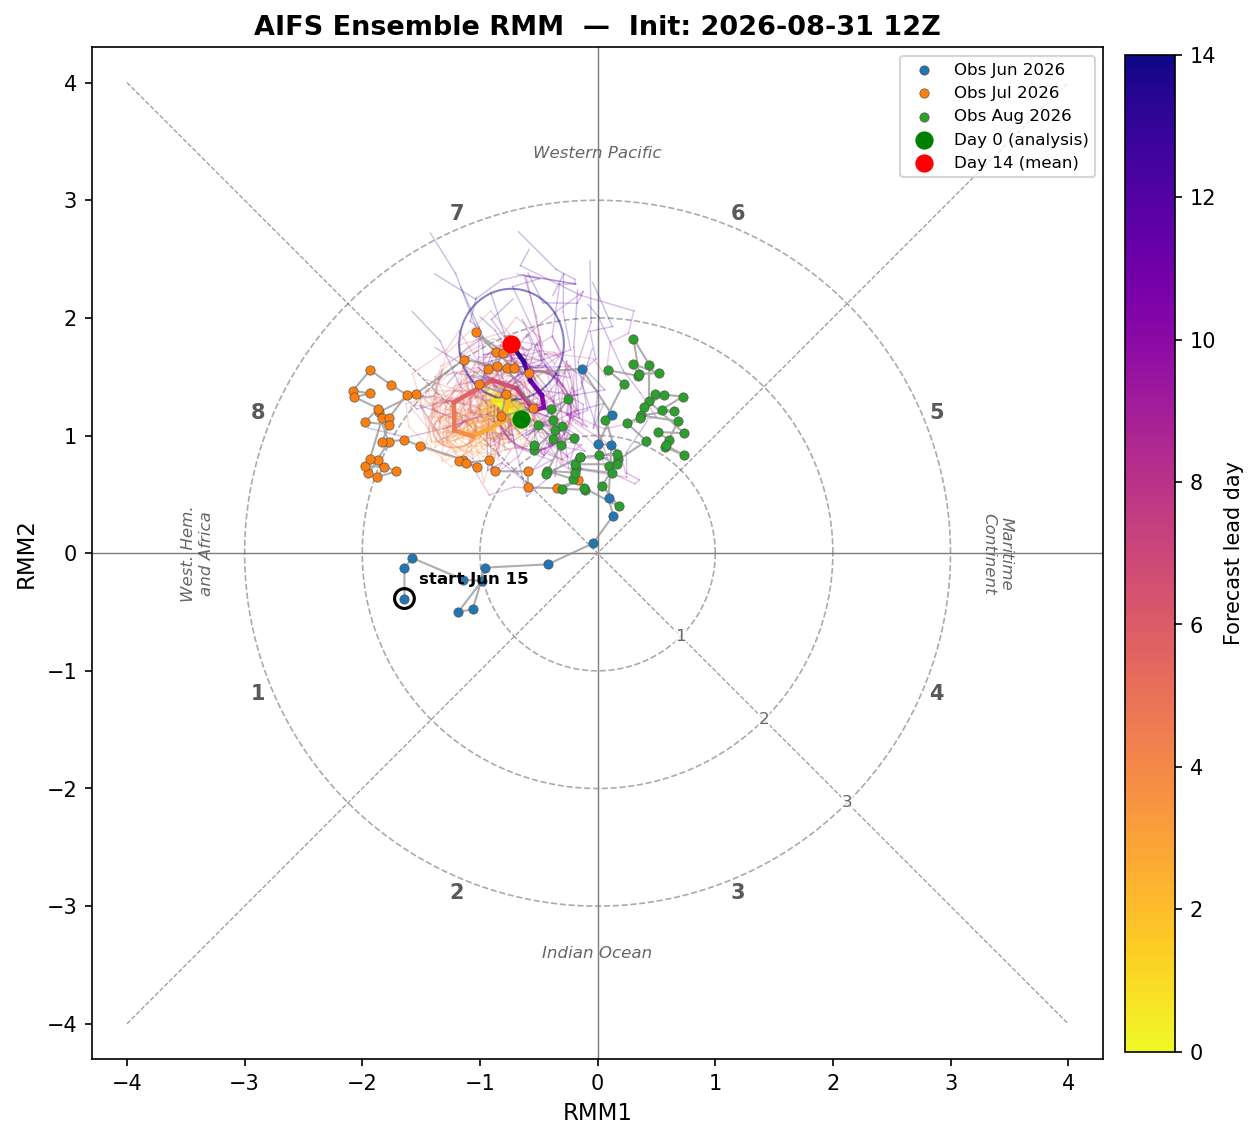
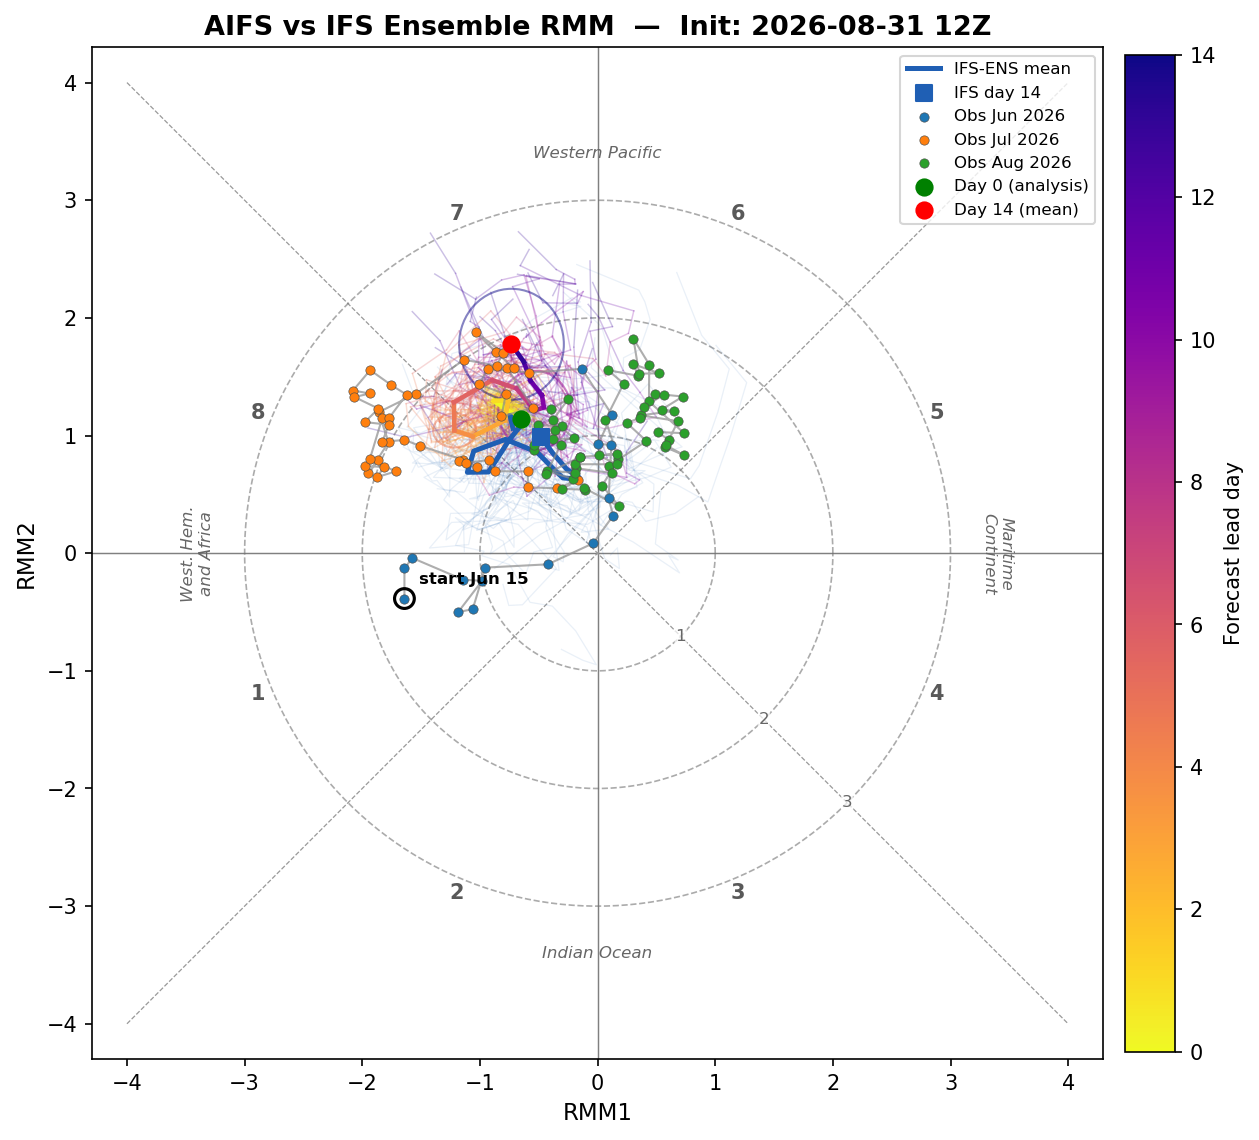
data update: 20260831_12z (r)

Changed region(s): [[0.1549, 0.0, 0.8674, 0.2149], [0.3407, 0.3684, 0.4956, 0.4605]]

diff --git a/mjo.html b/mjo.html
@@ -87,7 +87,7 @@
   degrees of the official BoM RMM phase).</p>
     <p class="lede" style="margin:0.5rem 0 1.2rem">Latest init: <strong>2026-08-31 12Z</strong>. Drag the slider to step through successive forecast runs (oldest → latest) and watch the predicted MJO track evolve.</p>
   <iframe class="anim-embed" src="sst_anim.html?embed=1&amp;base=assets&amp;manifest=mjo/rmm_manifest.json&amp;region=mjo" title="AIFS-ENS RMM forecast — successive runs animation" loading="lazy"></iframe>
-  <p class="meta">Updated 2026-08-31 18:57Z · Auto-generated from the AIFS-ENS open-data
+  <p class="meta">Updated 2026-08-31 20:43Z · Auto-generated from the AIFS-ENS open-data
   feed. Methodology: NOAA CPC / Wheeler &amp; Hendon (2004), EOFs from NOAA OLR +
   NCEP wind with the 120-day low-frequency filter removed; pseudo-OLR from
   &minus;standardized daily precip vs an ERA5 1991&ndash;2020 band climatology.</p>
